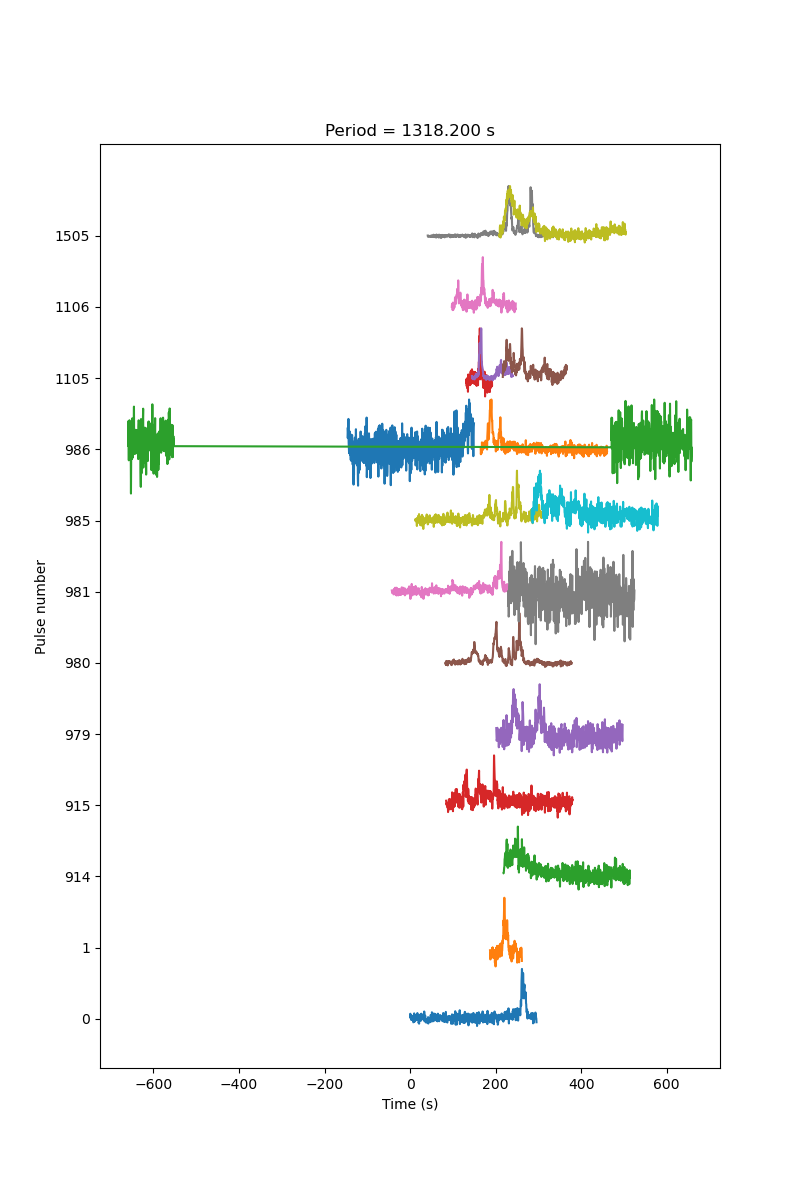
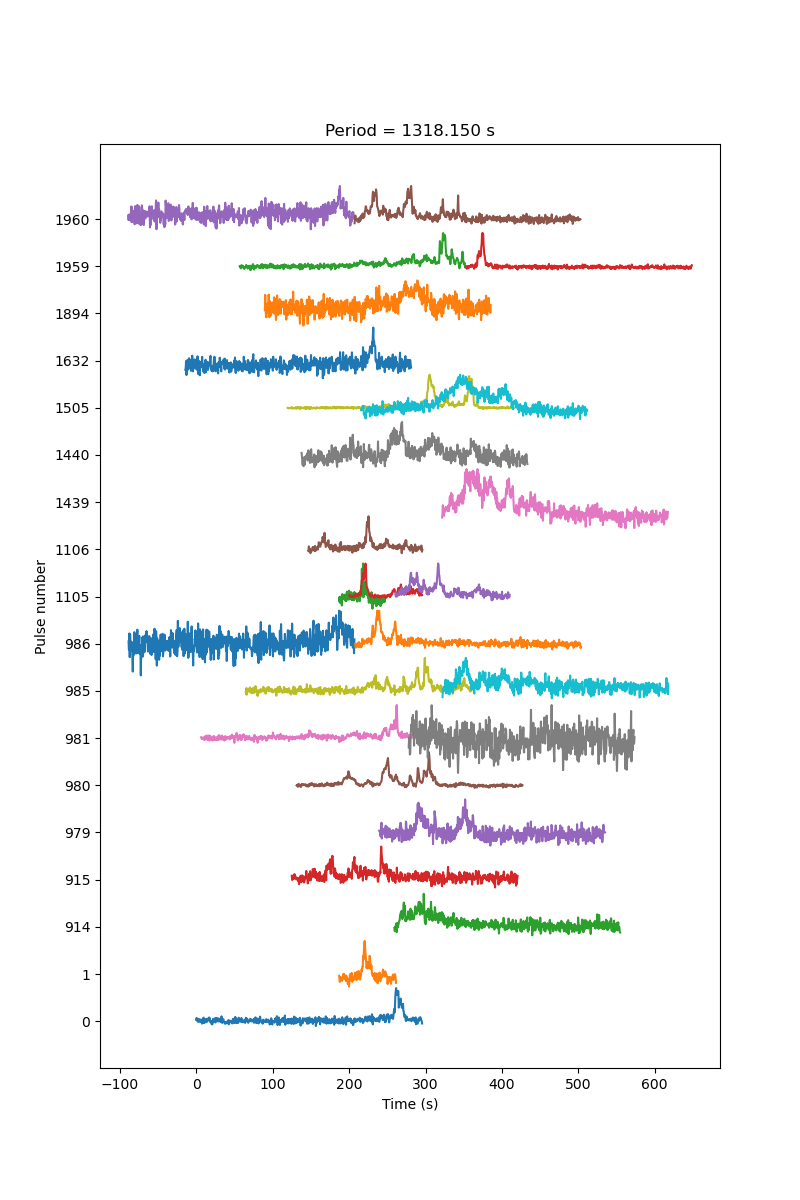
Hmm, not quite satisfied that timestamps are behaving correctly, but commiting now before the day's meetings get started.

diff --git a/dynspec/dedisperse_dynspec.py b/dynspec/dedisperse_dynspec.py
@@ -56,15 +56,27 @@ class Dynspec:
         if self.fscrunched is not None:
             ax.plot(self.t, self.fscrunched)
 
+    def set_freq_ref(self, freq_ref):
+        if freq_ref is None or freq_ref == 'centre':
+            self.freq_ref = np.mean(self.f)
+        elif freq_ref == 'low':
+            self.freq_ref = self.f[0]
+        elif freq_ref == 'high':
+            self.freq_ref = self.f[-1]
+        else:
+            try:
+                self.freq_ref = float(freq_ref)
+            except:
+                meanfreq = np.mean(self.f)
+                print("Warning: could not interpret {} as frequency, setting the reference frequency to {} MHz".format(freq_ref, meanfreq))
+                self.freq_ref = meanfreq
+
     def calc_dm_shifts(self, dm, freq_ref=None):
+        # Set the reference frequency
+        self.set_freq_ref(freq_ref)
+
         # Calculate how much the DM is to change by
         dm_diff = dm - self.dm
-
-        # Set the reference frequency
-        if freq_ref is None:
-            self.freq_ref = np.mean(self.f)
-        else:
-            self.freq_ref = freq_ref
 
         # The DM delay formula assumes time in seconds, frequencies in MHz
         return calc_dmdelay(dm_diff, self.freq_ref, self.f)
@@ -186,7 +198,7 @@ if __name__ == "__main__":
     parser.add_argument('--dms', type=float, nargs='*', help='DM trials (pc/cm^3) [[start=0], stop, [step=1]] (i.e. same argument structure as s NumPy''s arange function). If a single value is given, the dynamic spectrum is dedispersed to this DM and no search is performed')
     parser.add_argument('--sample_time', type=float, default=0.5, help='The time of one sample (s)')
     parser.add_argument('--freqlo', type=float, default=139.52, help='The centre frequency of the lowest channel (MHz)')
-    parser.add_argument('--freq_ref', type=float, help='The reference frequency used during dedispersion (MHz) (default = centre frequency)')
+    parser.add_argument('--freq_ref', type=str, default='centre', help='The reference frequency used during dedispersion. Either a frequency in MHz, or one of [\'low\', \'centre\', \'high\'] (default=\'centre\')')
     parser.add_argument('--bw', type=float, default=1.28, help='The channel width (MHz)')
     parser.add_argument('--output', type=argparse.FileType('w'), help='The file to which the dedispersed dynamic spectrum will be written')
     parser.add_argument('--input', type=str, help='The (NumPy-readable) file containing the input dynamic spectrum')

diff --git a/dynspec/pulsestacks/README.md b/dynspec/pulsestacks/README.md
@@ -4,10 +4,6 @@
 
 A first, rough guess by eye of the period.
 
-##### Each observation has its own "best" DM
-
-This uses different DMs for each observation, as determined by the `dedisperse_dynspec.py` script.
-
 ![1318.2 seconds](pulsestack_1318.2.png)
 
 #### All observations dedispersed to 285 pc/cm^3
